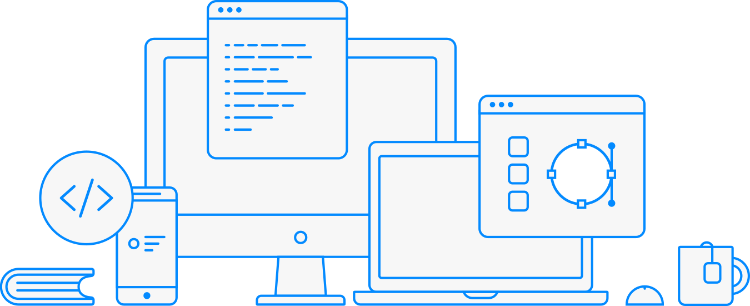
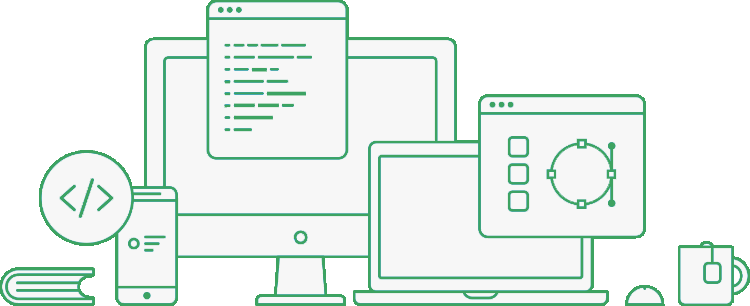
Updated color theme, project grid layout, skill set

diff --git a/src/components/Projects.vue b/src/components/Projects.vue
@@ -1,7 +1,7 @@
 <template>
-  <section id="projects-container">
+  <section id="projects-container" data-aos="fade-up" data-aos-delay="0">
     <h2 id="projects">Projects</h2>
-    <div class="grid-container" data-aos="fade-up" data-aos-delay="0">
+    <div class="grid-container" >
       <!-- Loop over JSON object containing all project data and render a card for each entry -->
       <div class="grid-item" v-for="(project, portfolioLoop) in portfolioJSON" :key="portfolioLoop">
         <div>
@@ -89,11 +89,11 @@ export default {
 // Variables
 $background-color: #f7f7f7;
 $text-color: #333;
-$accent-color: #038AFF;
-$softwareBGColor: #d6ecff;
+$accent-color: #3da361;
+$softwareBGColor: #b0e4c2;
 
 #projects-container {
-  max-width: 1050px;
+  max-width: 1150px;
   position: relative;
   margin: 0 auto;
   font-family: 'Inter', sans-serif;
@@ -124,12 +124,12 @@ $softwareBGColor: #d6ecff;
   .grid-container {
     max-width: 100%;
     display: grid;
-    grid-template-columns: repeat(2, 1fr);
-    grid-gap: 4rem;
+    grid-template-columns: repeat(3, 1fr);
+    grid-gap: 2.5rem;
 
     .grid-item {
       width: 100%;
-      height: 40rem;
+      height: 37.5rem;
       background-color: #fff;
       box-shadow: 0px 0px 15px 1px rgba(0,0,0,0.2);
       position: relative;
@@ -141,12 +141,13 @@ $softwareBGColor: #d6ecff;
 
       img {
         width: 100%;
+        display: block;
         clip-path: polygon(0 0, 100% 0, 100% 89%, 0% 100%);
       }
 
       h3 {
         padding: 0 1.5rem;
-        font-size: 1.85rem;
+        font-size: 1.6rem;
         font-weight: bold;
         margin-top: 1.2rem;
       }
@@ -177,7 +178,7 @@ $softwareBGColor: #d6ecff;
         .item1 {
           position: absolute;
           bottom: 1.5rem;
-          right: 5rem;
+          right: 4.25rem;
         }
 
         .item2 {
@@ -187,7 +188,7 @@ $softwareBGColor: #d6ecff;
         }
 
         i {
-          font-size: 30px;
+          font-size: 27px;
           color: #444;
           transition: 0.2s ease;
 
@@ -254,6 +255,10 @@ $softwareBGColor: #d6ecff;
 
   #projects {
     scroll-margin-top: 50px;
+  }
+
+  .grid-container {
+    grid-template-columns: repeat(2, 1fr);
   }
 
   h2 {

diff --git a/src/components/Skillset.vue b/src/components/Skillset.vue
@@ -16,6 +16,7 @@
           <li class="interface-list__item">Basic understanding of Tailwind CSS</li>
           <li class="interface-list__item">Familiar with SEO principles</li>
           <li class="interface-list__item">VS Code, Git, Adobe Suite, Wordpress</li>
+          <li class="interface-list__item">Unreal Engine 4, Unity</li>
         </ul>
       </div>
       <div class="card-skillset__javascript">
@@ -42,12 +43,13 @@ export default {
 // Variables
 $background-color: #f7f7f7;
 $text-color: #555;
-$accent-color: #038AFF;
+// $accent-color: #038AFF;
+$accent-color: #3da361;
 
 
 #skillset-container {
   padding-top: 200px;
-  max-width: 1050px;
+  max-width: 1150px;
   margin: 0 auto;
   font-family: 'Inter', sans-serif;
   font-size: 16px;
@@ -80,7 +82,7 @@ $accent-color: #038AFF;
 
   .card-skillset {
     width: 75%;
-    height: 23rem;
+    height: 25rem;
     background-color: #fff;
     box-shadow: 0px 0px 15px 1px rgba(0,0,0,0.2);
     display: flex;
@@ -118,13 +120,13 @@ $accent-color: #038AFF;
 
     .card-skillset {
       width: 100%;
-      height: 41rem;
+      height: 48rem;
       display: flex;
       flex-direction: column;
       padding: 1.5rem 2rem 1.5rem 2rem;
 
       &__interface {
-        width: 25ch;
+        width: 100%;
       }
 
       h3 {
@@ -162,7 +164,7 @@ $accent-color: #038AFF;
 
     .card-skillset {
       width: 100%;
-      height: 28rem;
+      height: 30rem;
       display: flex;
       padding: 1.5rem 2rem 1.5rem 2rem;
 

diff --git a/src/components/Navbar.vue b/src/components/Navbar.vue
@@ -7,6 +7,7 @@
       <li><a v-scroll-to="'#projects-container'">Projects</a></li>
       <li><a v-scroll-to="'#skillset-container'">Skills</a></li>
       <li><a v-scroll-to="'#contact-container'">Contact</a></li>
+      <li><a href="https://github.com/Richardvbr" target="_blank" class="github-link">GitHub</a></li>
     </ul>
   </nav>
 </template>
@@ -21,12 +22,12 @@ export default {
 // Variables
 $background-color: #f7f7f7;
 $text-color: #333;
-$accent-color: #038AFF;
+$accent-color: #3da361;
 
 #nav-container {
   background-color: #fff;
   width: 100vw;
-  height: 4.5rem;
+  height: 4rem;
   box-shadow: 0px 8px 15px 1px rgba(0,0,0,0.13);
   position: fixed;
   top: 0;
@@ -61,31 +62,9 @@ $accent-color: #038AFF;
         color: $accent-color;
       }
     }
-
-    // Dark/light
-    .theme-switch-wrapper {
-      display: flex;
-      align-items: center;
-
-      p {
-        margin-left: 10px;
-        font-size: 0.75rem;
-        font-family: inter, sans-serif;
-      }
-    }
   }
-
-    .resume-link {
+    .github-link {
       color: $accent-color;
-      border: solid 2px $accent-color;
-      border-radius: 10px;
-      padding: 0.5rem 1rem;
-      margin-left: 1rem;
-
-      &:hover {
-        color: $background-color;
-        background-color: $accent-color;
-      }
     }
 }
 

diff --git a/src/components/Footer.vue b/src/components/Footer.vue
@@ -15,6 +15,7 @@ export default {
 <style scoped lang="scss">
 // Variables
 $text-color: #333;
+$accent-color: #3da361;
 
 .container {
   height: 3rem;
@@ -33,6 +34,11 @@ $text-color: #333;
     a {
       color: rgb(90, 90, 90);
       text-decoration: none;
+      transition: .2s ease;
+
+      &:hover {
+        color: $accent-color;
+      }
     }
   }
 }

diff --git a/src/components/Home.vue b/src/components/Home.vue
@@ -19,7 +19,7 @@ export default {
 // Variables
 $background-color: #f7f7f7;
 $text-color: #333;
-$accent-color: #038AFF;
+$accent-color: #3da361;
 
 
 // Default
@@ -181,10 +181,6 @@ $accent-color: #038AFF;
         width: 200px;
         padding: 1rem;
       }
-    }
-
-    img {
-      display: none;
     }
   }
 }

diff --git a/src/components/Contact.vue b/src/components/Contact.vue
@@ -44,7 +44,7 @@ export default {
 // Variables
 $background-color: #f7f7f7;
 $text-color: #555;
-$accent-color: #038AFF;
+$accent-color: #3da361;
 $border-color: #b4b4b4;
 
 #contact-container {
